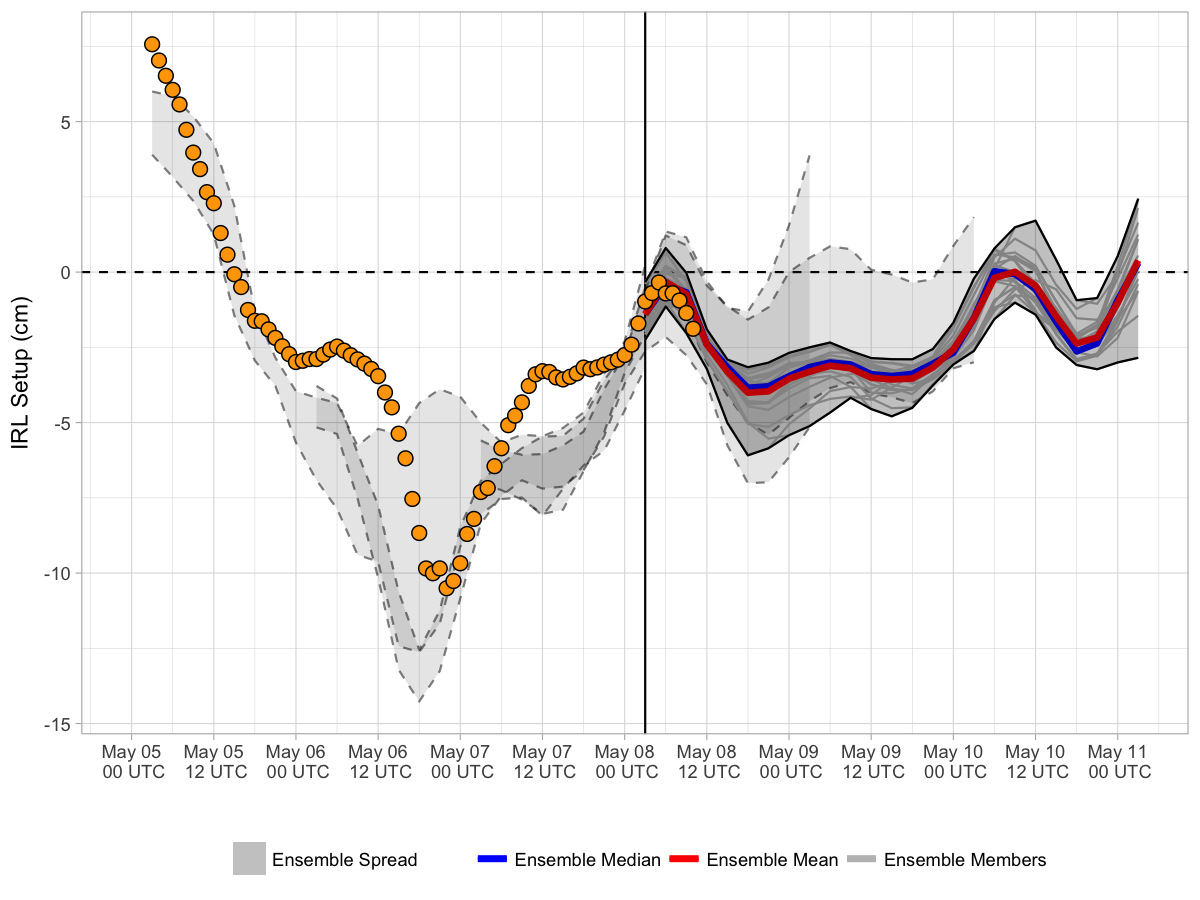
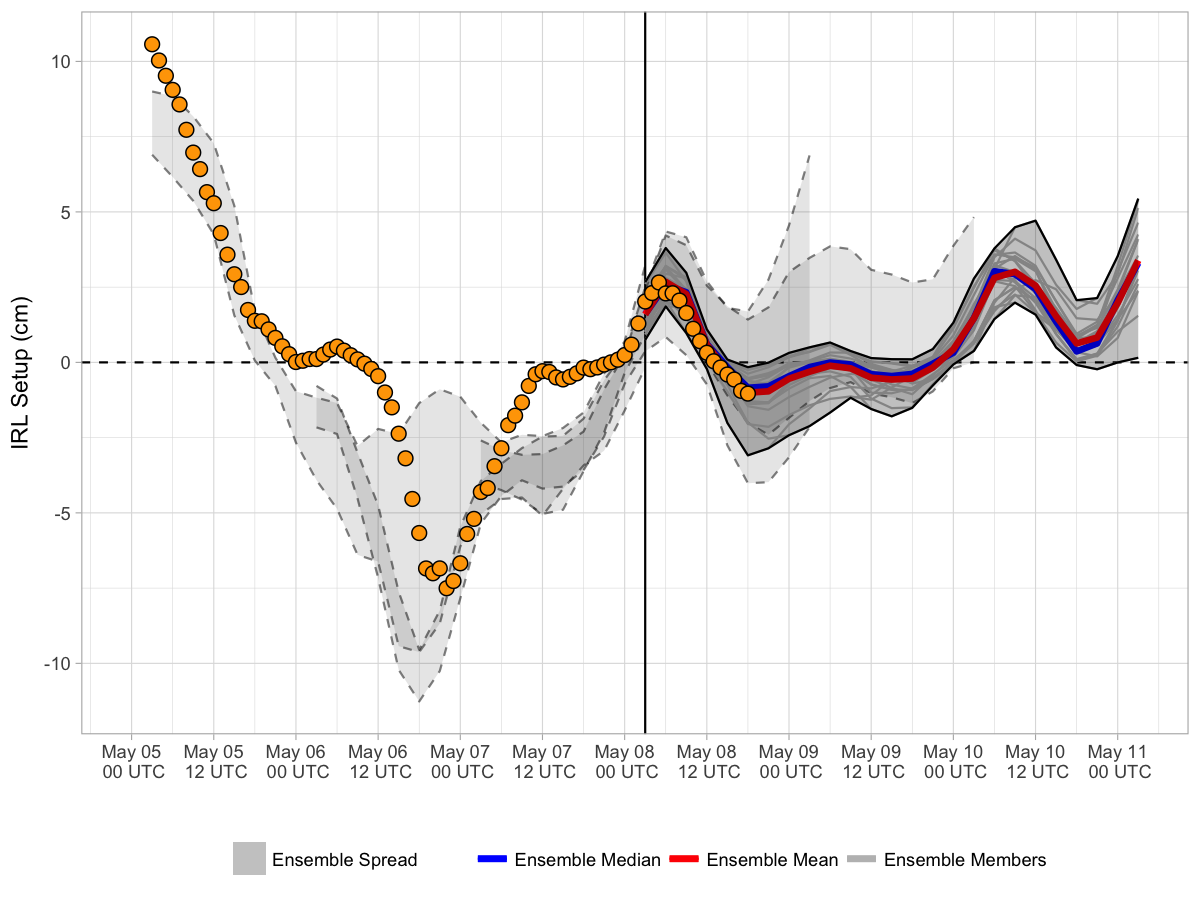
Deleted 3 cm offset. Closes #6.

diff --git a/docs/index.md b/docs/index.md
@@ -3,7 +3,7 @@ Current Forecast
 
 [![](img/raw_setup.png)](https://bhlmn.github.io/IRLSetup/img/raw_setup.png)
 
-> Forecast valid 2017-05-08 13:05:52.
+> Forecast valid 2017-05-08 14:28:40.
 
 Explanation
 -----------
